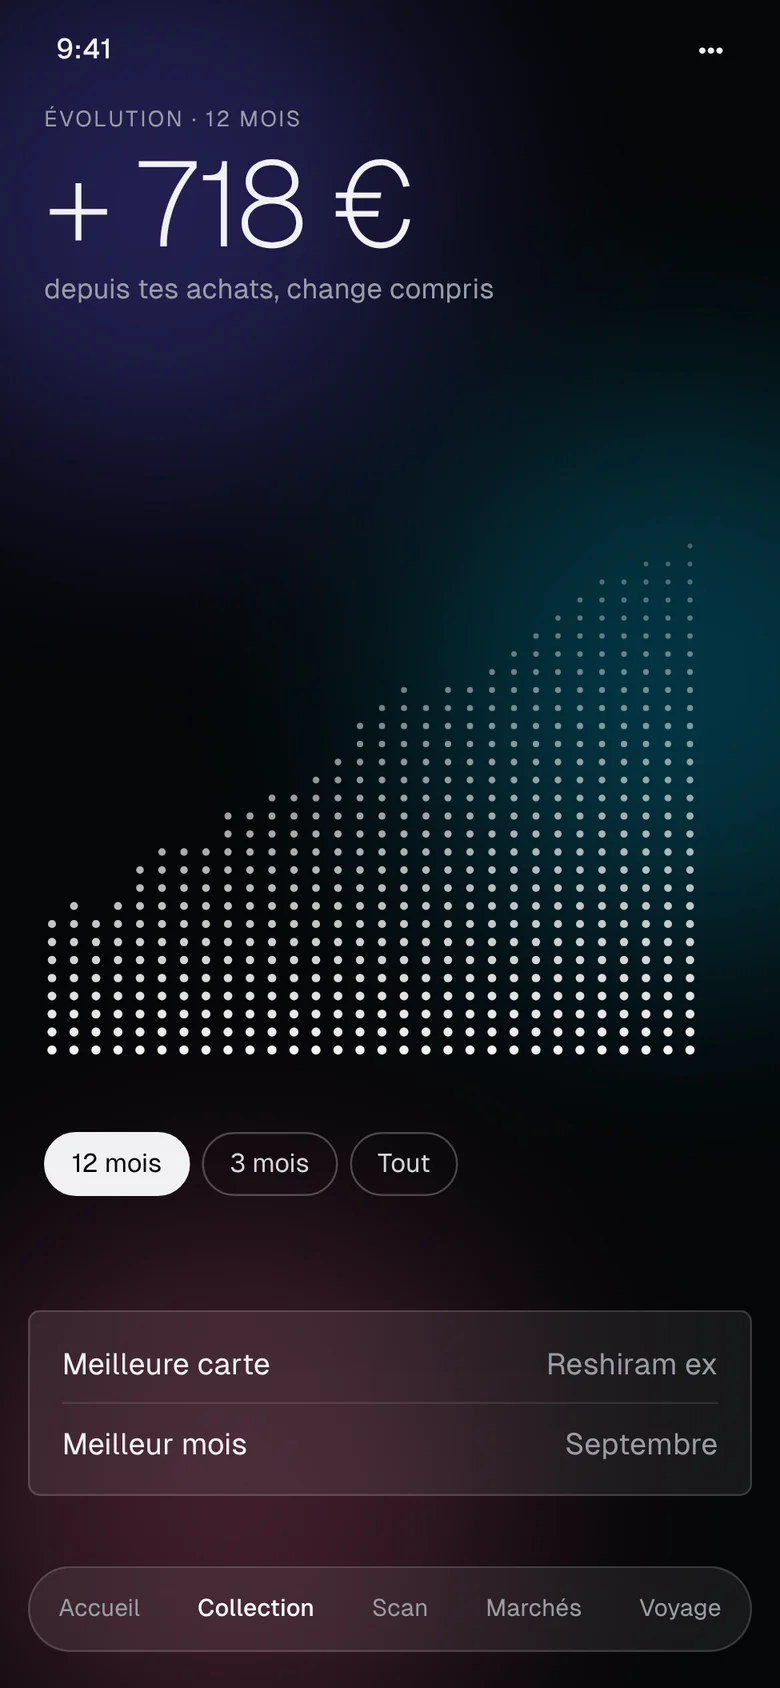
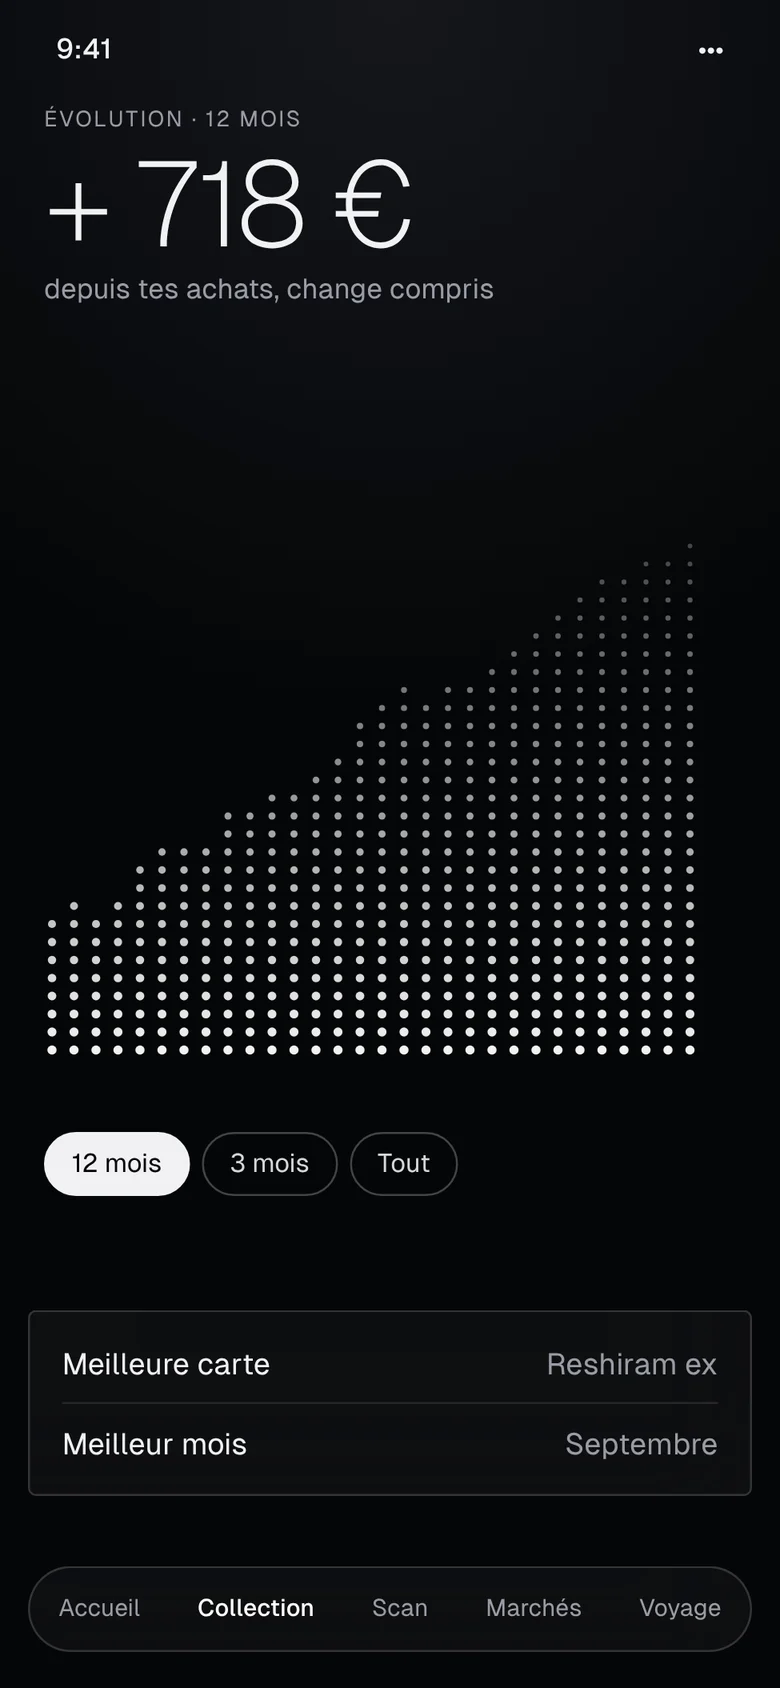
Écrin: DA sobre, sans halos colorés; rendus 3D mis à jour
Claude-Session: https://claude.ai/code/session_01SQuvPsAmRQDvyeL5CnaQis

diff --git a/src/app/ecrin/page.tsx b/src/app/ecrin/page.tsx
@@ -193,8 +193,8 @@ export default function Page() {
         </p>
         <p>
           {t(
-            'Un rendu 3D la montre sous plusieurs angles. La même matière se retrouve dans l’interface : verre dépoli, halo holographique, points.',
-            'A 3D render shows it from several angles. The same material runs through the interface: frosted glass, holographic glow, dots.'
+            'Un rendu 3D la montre sous plusieurs angles. L’interface reste volontairement sobre : fond noir, verre transparent, points blancs. Seule la carte porte la couleur.',
+            'A 3D render shows it from several angles. The interface stays deliberately restrained: black background, transparent glass, white dots. Only the card carries colour.'
           )}
         </p>
       </Chapter>
